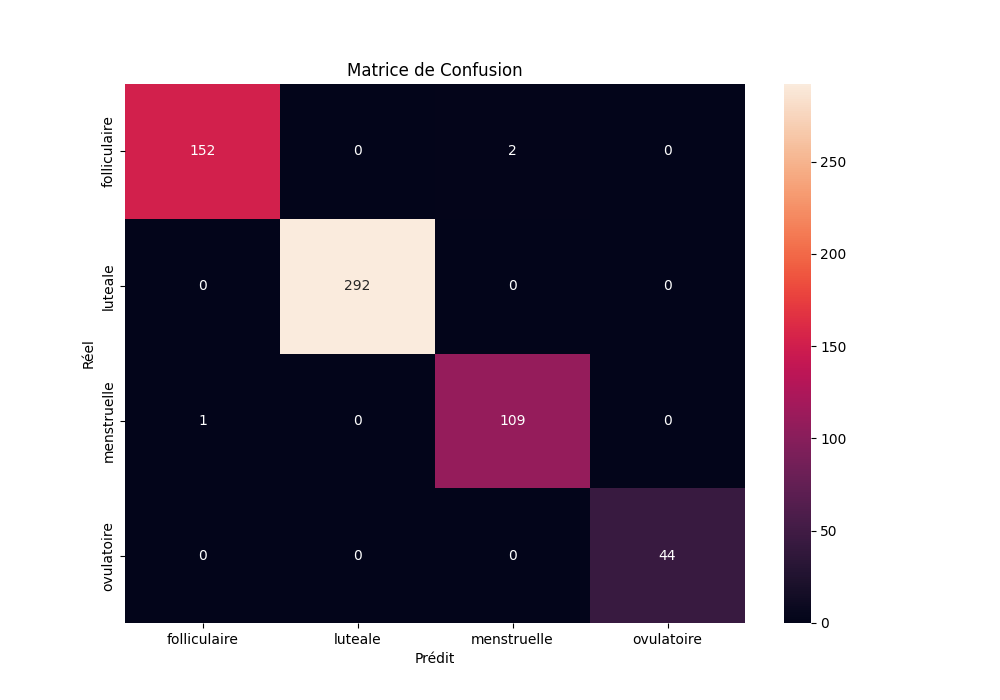
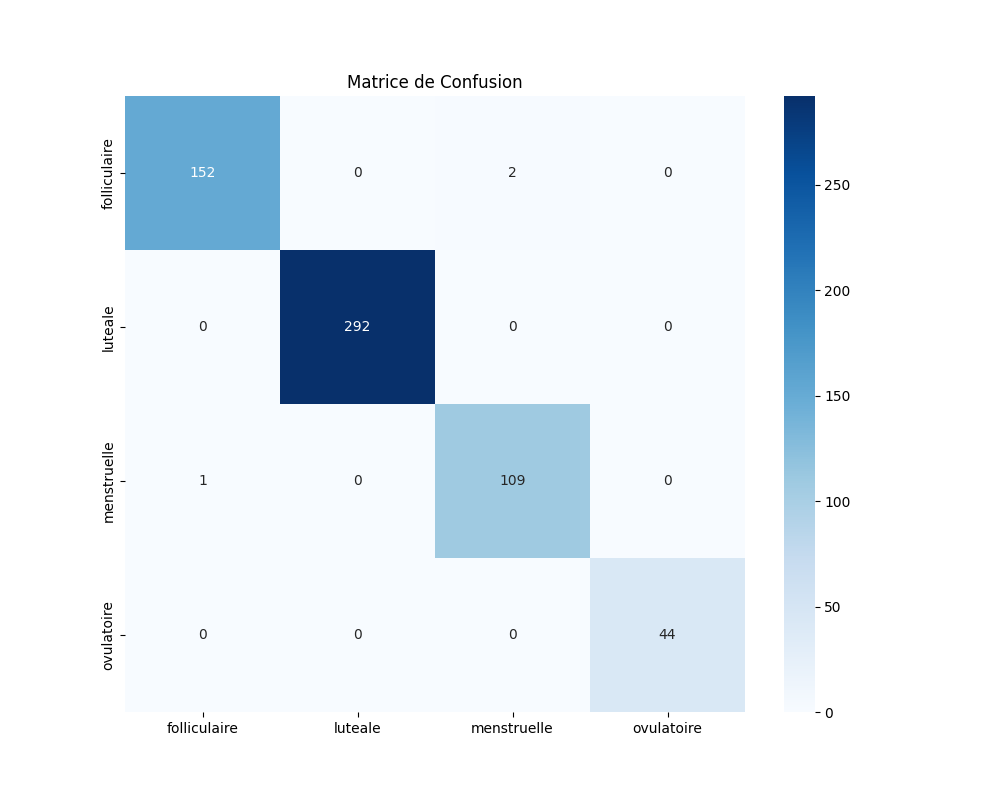
fin

diff --git a/train_fixed.py b/train_fixed.py
@@ -1,0 +1,127 @@
+"""
+BioCycle - Version Corrigée (Sans TensorFlow)
+===========================================
+Cette version utilise un Perceptron Multicouche (MLP) de Scikit-Learn.
+C'est un réseau de neurones identique en structure à votre modèle Keras,
+mais compatible avec tous les processeurs CPU.
+"""
+
+import pandas as pd
+import numpy as np
+from sqlalchemy import create_engine
+from sklearn.preprocessing import StandardScaler, LabelEncoder
+from sklearn.model_selection import train_test_split
+from sklearn.metrics import classification_report, confusion_matrix
+from sklearn.neural_network import MLPClassifier # Alternative à Keras
+import matplotlib.pyplot as plt
+import seaborn as sns
+import pickle
+
+# ========== Configuration ==========
+DB_HOST = '127.0.0.1'
+DB_USER = 'alphadev'
+DB_PASSWORD = 'alphadev'
+DB_NAME = 'biocycle'
+DB_PORT = 3306
+
+# ========== 1. Connexion à la Base de Données ==========
+print("🔌 Connexion à la base de données...")
+connection_string = f"mysql+mysqldb://{DB_USER}:{DB_PASSWORD}@{DB_HOST}:{DB_PORT}/{DB_NAME}"
+engine = create_engine(connection_string)
+
+# ========== 2. Charger les Données ==========
+print("📥 Chargement des données ML...")
+query = """
+SELECT 
+    day_of_cycle, basal_temp, cervical_mucus_score, sleep_hours, stress_level, 
+    exercise_minutes, water_intake_ml, estrogen_pmol_l, progesterone_pmol_l, 
+    fsh_iu_l, lh_iu_l, has_cramps, has_headache, has_bloating, has_fatigue, 
+    has_mood_changes, has_acne, has_libido_change, actual_phase
+FROM ml_training_data
+WHERE is_validated = true AND actual_phase IS NOT NULL
+"""
+
+df = pd.read_sql(query, engine)
+print(f"✅ Données chargées: {df.shape[0]} samples")
+
+# ========== 3. Préparation des Données ==========
+numeric_features = [
+    'day_of_cycle', 'basal_temp', 'cervical_mucus_score', 'sleep_hours', 
+    'stress_level', 'exercise_minutes', 'water_intake_ml', 'estrogen_pmol_l', 
+    'progesterone_pmol_l', 'fsh_iu_l', 'lh_iu_l', 'has_cramps', 'has_headache', 
+    'has_bloating', 'has_fatigue', 'has_mood_changes', 'has_acne', 'has_libido_change'
+]
+
+X = df[numeric_features].values
+X = np.nan_to_num(X, nan=0.0)
+
+le = LabelEncoder()
+y_encoded = le.fit_transform(df['actual_phase'])
+
+scaler = StandardScaler()
+X_scaled = scaler.fit_transform(X)
+
+# ========== 4. Train/Test Split ==========
+X_train, X_test, y_train, y_test = train_test_split(
+    X_scaled, y_encoded, test_size=0.2, random_state=42, stratify=y_encoded
+)
+
+# ========== 5. Construction du Modèle ==========
+print("\n🧠 Construction du modèle (Réseau de neurones MLP)...")
+
+# On reproduit la structure Dense(128) -> Dense(64) -> Dense(32) -> Dense(16)
+model = MLPClassifier(
+    hidden_layer_sizes=(128, 64, 32, 16),
+    activation='relu',
+    solver='adam',
+    alpha=0.001,
+    batch_size=32,
+    learning_rate_init=0.001,
+    max_iter=200,
+    early_stopping=True,
+    validation_fraction=0.2,
+    verbose=True,
+    random_state=42
+)
+
+# ========== 6. Entraînement ==========
+print("\n🚀 Entraînement du modèle...")
+model.fit(X_train, y_train)
+print("✅ Entraînement terminé!")
+
+# ========== 7. Évaluation ==========
+print("\n📊 Évaluation du modèle...")
+y_pred = model.predict(X_test)
+accuracy = model.score(X_test, y_test)
+
+print(f"\nAccuracy sur le test set: {accuracy:.4f}")
+print("\nRapport de Classification:")
+print(classification_report(y_test, y_pred, target_names=le.classes_))
+
+# ========== 8. Visualisation ==========
+print("\n📈 Génération des graphiques...")
+cm = confusion_matrix(y_test, y_pred)
+plt.figure(figsize=(10, 8))
+sns.heatmap(cm, annot=True, fmt='d', cmap='Blues', xticklabels=le.classes_, yticklabels=le.classes_)
+plt.title('Matrice de Confusion')
+plt.savefig('model_results.png')
+print("✅ Graphique sauvegardé: model_results.png")
+
+# ========== 9. Prédiction Personnalisée ==========
+print("\n🔮 Exemple de Prédiction Personnalisée...")
+sample_data = np.array([[14, 37.2, 5, 8, 3, 45, 2800, 350, 30, 40, 70, 0, 0, 0, 0, 0, 0, 1]])
+X_sample = scaler.transform(sample_data)
+prob = model.predict_proba(X_sample)[0]
+
+for i, phase in enumerate(le.classes_):
+    print(f"  {phase}: {prob[i]*100:.1f}%")
+
+# ========== 10. Sauvegarde ==========
+print("\n💾 Sauvegarde des composants...")
+with open('cycle_model.pkl', 'wb') as f:
+    pickle.dump(model, f)
+with open('scaler.pkl', 'wb') as f:
+    pickle.dump(scaler, f)
+with open('label_encoder.pkl', 'wb') as f:
+    pickle.dump(le, f)
+print("✅ Tous les fichiers sont sauvegardés.")
